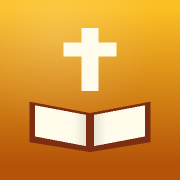
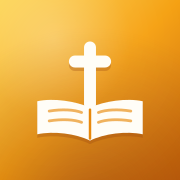
fix(culto): salvar sem duplicar + título preservado + tela acesa gravando + ícone novo
- Trava de salvamento (toques repetidos criavam transcrições duplicadas)
- Título e notas não somem mais após salvar; título editável nos cultos salvos
- Wake lock: tela fica acesa durante a gravação (readquire ao voltar à aba)
- Gravação resiliente: chunks a cada 5s + onerror/onended transcrevem o que já foi captado
- Ícone do PWA redesenhado: livro aberto com cruz na lombada, dourado da identidade

diff --git a/src/app/transcrever-culto/page.tsx b/src/app/transcrever-culto/page.tsx
@@ -6,7 +6,7 @@ import { CosmicBackground } from '@/components/ui/CosmicBackground';
 import { BackButton } from '@/components/ui/BackButton';
 import {
     getTranscricoes, salvarTranscricao, removerTranscricao, atualizarNotasTranscricao,
-    uploadAudioCulto, type Transcricao,
+    atualizarTituloTranscricao, uploadAudioCulto, type Transcricao,
 } from '@/lib/transcricoes';
 
 type Etapa = 'idle' | 'gravando' | 'processando' | 'pronto';
@@ -28,10 +28,12 @@ export default function TranscreverCultoPage() {
     const [etapa, setEtapa] = useState<Etapa>('idle');
     const [tempo, setTempo] = useState(0);
     const [erro, setErro] = useState<string | null>(null);
+    const [aviso, setAviso] = useState<string | null>(null);
     const [texto, setTexto] = useState('');
     const [titulo, setTitulo] = useState('');
     const [notas, setNotas] = useState('');
     const [salvo, setSalvo] = useState(false);
+    const [salvando, setSalvando] = useState(false);
     const [historico, setHistorico] = useState<Transcricao[]>([]);
 
     const recorderRef = useRef<MediaRecorder | null>(null);
@@ -39,6 +41,10 @@ export default function TranscreverCultoPage() {
     const streamRef = useRef<MediaStream | null>(null);
     const timerRef = useRef<ReturnType<typeof setInterval> | null>(null);
     const extRef = useRef('webm');
+    const wakeLockRef = useRef<WakeLockSentinel | null>(null);
+    const processandoRef = useRef(false); // evita processar o mesmo áudio 2x
+    const etapaRef = useRef<Etapa>('idle');
+    useEffect(() => { etapaRef.current = etapa; }, [etapa]);
 
     const carregar = useCallback(async () => {
         setHistorico(await getTranscricoes('culto'));
@@ -48,15 +54,45 @@ export default function TranscreverCultoPage() {
         carregar();
     }, [carregar]);
 
+    // ==========================================
+    // WAKE LOCK: mantém a tela acesa durante a gravação.
+    // O navegador SOLTA o wake lock quando a aba fica oculta —
+    // ao voltar, readquirimos se ainda estiver gravando.
+    // ==========================================
+    const pedirWakeLock = useCallback(async () => {
+        try {
+            if ('wakeLock' in navigator) {
+                wakeLockRef.current = await navigator.wakeLock.request('screen');
+            }
+        } catch { /* sem suporte ou negado — segue sem */ }
+    }, []);
+
+    const soltarWakeLock = useCallback(() => {
+        wakeLockRef.current?.release().catch(() => { });
+        wakeLockRef.current = null;
+    }, []);
+
+    useEffect(() => {
+        const aoVoltarVisivel = () => {
+            if (document.visibilityState === 'visible' && etapaRef.current === 'gravando') {
+                pedirWakeLock();
+            }
+        };
+        document.addEventListener('visibilitychange', aoVoltarVisivel);
+        return () => document.removeEventListener('visibilitychange', aoVoltarVisivel);
+    }, [pedirWakeLock]);
+
     useEffect(() => () => {
         if (timerRef.current) clearInterval(timerRef.current);
         streamRef.current?.getTracks().forEach((t) => t.stop());
+        wakeLockRef.current?.release().catch(() => { });
     }, []);
 
     const formatarTempo = (s: number) => `${String(Math.floor(s / 60)).padStart(2, '0')}:${String(s % 60).padStart(2, '0')}`;
 
     const iniciar = async () => {
         setErro(null);
+        setAviso(null);
         setTexto('');
         setSalvo(false);
         try {
@@ -70,13 +106,33 @@ export default function TranscreverCultoPage() {
             if (mime) opcoes.mimeType = mime;
             const rec = new MediaRecorder(stream, opcoes);
             chunksRef.current = [];
+            processandoRef.current = false;
             rec.ondataavailable = (e) => { if (e.data.size > 0) chunksRef.current.push(e.data); };
             rec.onstop = processar;
-            rec.start();
+            // Se o sistema matar a gravação (tela bloqueada, outro app pegou o
+            // microfone...), NÃO perde nada: transcreve o que já foi captado.
+            rec.onerror = () => {
+                setAviso('A gravação foi interrompida pelo sistema — transcrevendo o que já foi gravado.');
+                parar();
+            };
+            // O sistema pode encerrar a track do microfone (ex: ligação recebida)
+            stream.getAudioTracks().forEach((track) => {
+                track.onended = () => {
+                    if (etapaRef.current === 'gravando') {
+                        setAviso('O microfone foi encerrado pelo sistema — transcrevendo o que já foi gravado.');
+                        parar();
+                    }
+                };
+            });
+            // timeslice 5s: os pedaços já ficam guardados durante a gravação;
+            // se algo morrer no meio, o áudio até ali está salvo em memória.
+            rec.start(5000);
             recorderRef.current = rec;
             setTempo(0);
             setEtapa('gravando');
             timerRef.current = setInterval(() => setTempo((t) => t + 1), 1000);
+            // Mantém a tela acesa enquanto grava
+            pedirWakeLock();
         } catch {
             setErro('Não consegui acessar o microfone. Permita o acesso e tente de novo.');
         }
@@ -84,14 +140,29 @@ export default function TranscreverCultoPage() {
 
     const parar = () => {
         if (timerRef.current) clearInterval(timerRef.current);
-        recorderRef.current?.stop();
+        soltarWakeLock();
+        try {
+            if (recorderRef.current && recorderRef.current.state !== 'inactive') {
+                recorderRef.current.stop(); // dispara onstop → processar
+            } else if (!processandoRef.current && chunksRef.current.length > 0) {
+                // Recorder já morto (ex: sistema matou) mas há áudio captado
+                processar();
+            }
+        } catch { /* stop em recorder inativo */ }
         streamRef.current?.getTracks().forEach((t) => t.stop());
     };
 
     const processar = async () => {
+        if (processandoRef.current) return; // onstop + onended podem disparar juntos
+        processandoRef.current = true;
         setEtapa('processando');
         try {
             const blob = new Blob(chunksRef.current, { type: recorderRef.current?.mimeType || `audio/${extRef.current}` });
+            if (blob.size === 0) {
+                setErro('Nenhum áudio foi captado. Tente novamente.');
+                setEtapa('idle');
+                return;
+            }
             const path = await uploadAudioCulto(blob, extRef.current);
             if (!path) { setErro('Falha ao enviar o áudio. Tente novamente.'); setEtapa('idle'); return; }
 
@@ -115,11 +186,17 @@ export default function TranscreverCultoPage() {
     };
 
     const salvar = async () => {
-        if (!texto.trim()) return;
-        await salvarTranscricao({ tipo: 'culto', titulo: titulo.trim() || 'Culto', texto, notas });
-        setSalvo(true);
-        setTitulo('');
-        setNotas('');
+        // Trava dupla: ignora toques repetidos enquanto o insert está em
+        // andamento (era isso que criava transcrições duplicadas).
+        if (!texto.trim() || salvando || salvo) return;
+        setSalvando(true);
+        const ok = await salvarTranscricao({ tipo: 'culto', titulo: titulo.trim() || 'Culto', texto, notas });
+        setSalvando(false);
+        if (!ok) {
+            setErro('Falha ao salvar. Verifique a conexão e tente de novo.');
+            return;
+        }
+        setSalvo(true); // título e notas ficam visíveis — sem "sumir" nada
         carregar();
     };
 
@@ -131,6 +208,12 @@ export default function TranscreverCultoPage() {
     const salvarNota = async (id: string, nova: string) => {
         setHistorico((prev) => prev.map((t) => (t.id === id ? { ...t, notas: nova } : t)));
         await atualizarNotasTranscricao(id, nova);
+    };
+
+    const salvarTitulo = async (id: string, novo: string) => {
+        const limpo = novo.trim() || 'Culto';
+        setHistorico((prev) => prev.map((t) => (t.id === id ? { ...t, titulo: limpo } : t)));
+        await atualizarTituloTranscricao(id, limpo);
     };
 
     return (
@@ -157,6 +240,9 @@ export default function TranscreverCultoPage() {
                             <button onClick={parar} className="px-8 py-3 rounded-xl bg-red-500 text-white font-bold hover:bg-red-400 flex items-center gap-2">
                                 <Square className="w-5 h-5 fill-current" /> Parar e transcrever
                             </button>
+                            <p className="text-[11px] text-text-muted text-center max-w-xs leading-relaxed">
+                                A tela fica acesa durante a gravação. Mantenha o app aberto — trocar de app ou bloquear o celular pode interromper o microfone.
+                            </p>
                         </>
                     ) : etapa === 'processando' ? (
                         <div className="flex flex-col items-center gap-3 py-4">
@@ -176,6 +262,12 @@ export default function TranscreverCultoPage() {
                     </div>
                 )}
 
+                {aviso && !erro && (
+                    <div className="flex items-start gap-2 p-4 rounded-xl bg-orange-500/10 border border-orange-500/30 text-orange-600 dark:text-orange-300 text-sm">
+                        <AlertTriangle className="w-4 h-4 shrink-0 mt-0.5" /> <span>{aviso}</span>
+                    </div>
+                )}
+
                 {/* Resultado */}
                 {etapa === 'pronto' && (
                     <div className="rounded-2xl border border-amber-500/25 bg-surface-1 p-5 space-y-3">
@@ -191,9 +283,10 @@ export default function TranscreverCultoPage() {
                             <textarea value={notas} onChange={(e) => setNotas(e.target.value)} rows={4} placeholder="Anotações, pontos principais, aplicações..."
                                 className="w-full mt-1 px-3 py-2 rounded-lg bg-surface-2 border border-border-subtle text-text-primary text-sm leading-relaxed resize-y focus:outline-none focus:border-amber-500/50 focus:ring-2 focus:ring-amber-500/20" />
                         </div>
-                        <button onClick={salvar} disabled={salvo || !texto.trim()}
+                        <button onClick={salvar} disabled={salvo || salvando || !texto.trim()}
                             className="w-full py-3 rounded-xl bg-amber-500 text-amber-950 font-bold hover:bg-amber-400 disabled:opacity-50 flex items-center justify-center gap-2">
-                            {salvo ? <Check className="w-5 h-5" /> : <Save className="w-5 h-5" />} {salvo ? 'Salvo!' : 'Salvar'}
+                            {salvando ? <Loader2 className="w-5 h-5 animate-spin" /> : salvo ? <Check className="w-5 h-5" /> : <Save className="w-5 h-5" />}
+                            {salvando ? 'Salvando...' : salvo ? 'Salvo!' : 'Salvar'}
                         </button>
                     </div>
                 )}
@@ -213,6 +306,11 @@ export default function TranscreverCultoPage() {
                                     </button>
                                 </summary>
                                 <div className="mt-3 space-y-3">
+                                    <div>
+                                        <label className="text-[11px] uppercase tracking-wider text-amber-700/70 dark:text-amber-400/60 font-semibold">Título</label>
+                                        <input defaultValue={t.titulo || ''} onBlur={(e) => salvarTitulo(t.id, e.target.value)} placeholder="Ex: Culto de domingo"
+                                            className="w-full mt-1 px-3 py-2 rounded-lg bg-surface-2 border border-border-subtle text-text-primary text-sm font-semibold focus:outline-none focus:border-amber-500/50 focus:ring-2 focus:ring-amber-500/20" />
+                                    </div>
                                     <p className="text-sm text-text-secondary leading-relaxed whitespace-pre-wrap max-h-[40vh] overflow-y-auto">{t.texto}</p>
                                     <div>
                                         <label className="text-[11px] uppercase tracking-wider text-amber-700/70 dark:text-amber-400/60 font-semibold">Notas</label>

diff --git a/src/lib/transcricoes.ts b/src/lib/transcricoes.ts
@@ -65,6 +65,15 @@ export async function salvarTranscricao(t: {
     return data as Transcricao;
 }
 
+export async function atualizarTituloTranscricao(id: string, titulo: string): Promise<boolean> {
+    const { error } = await supabase.from('transcricoes').update({ titulo: titulo.trim() || null }).eq('id', id);
+    if (error) {
+        console.error('Erro ao atualizar título:', error.message);
+        return false;
+    }
+    return true;
+}
+
 export async function atualizarNotasTranscricao(id: string, notas: string): Promise<boolean> {
     const { error } = await supabase.from('transcricoes').update({ notas }).eq('id', id);
     if (error) {
